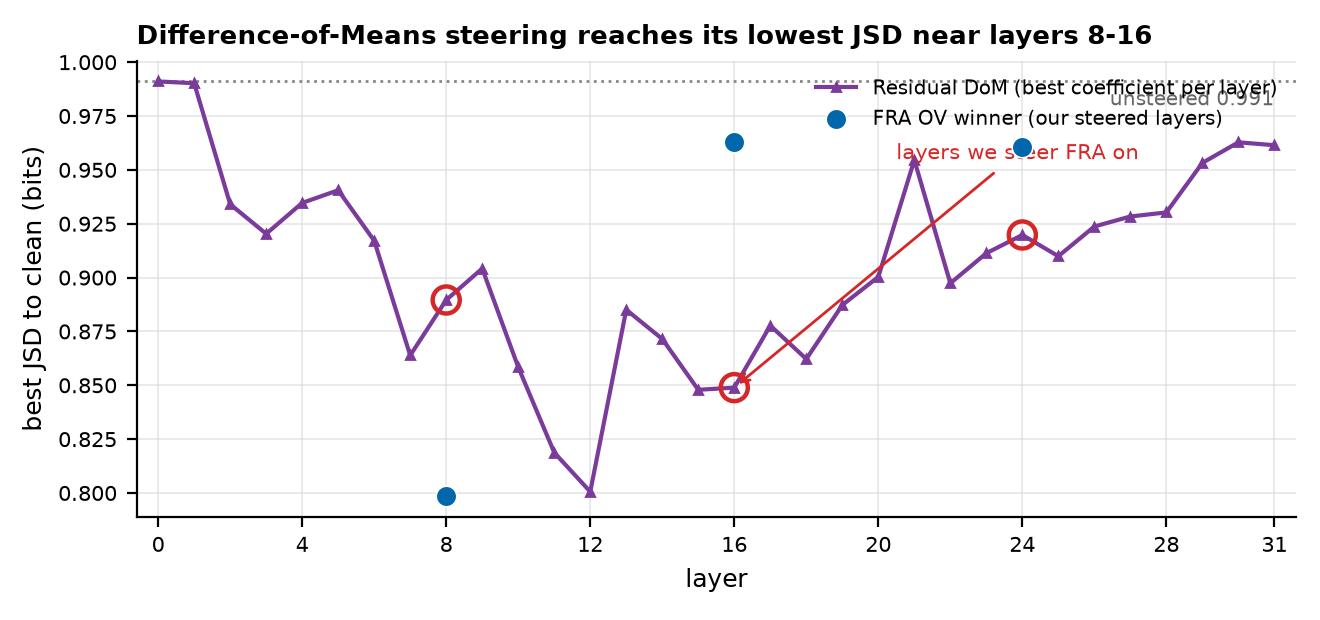
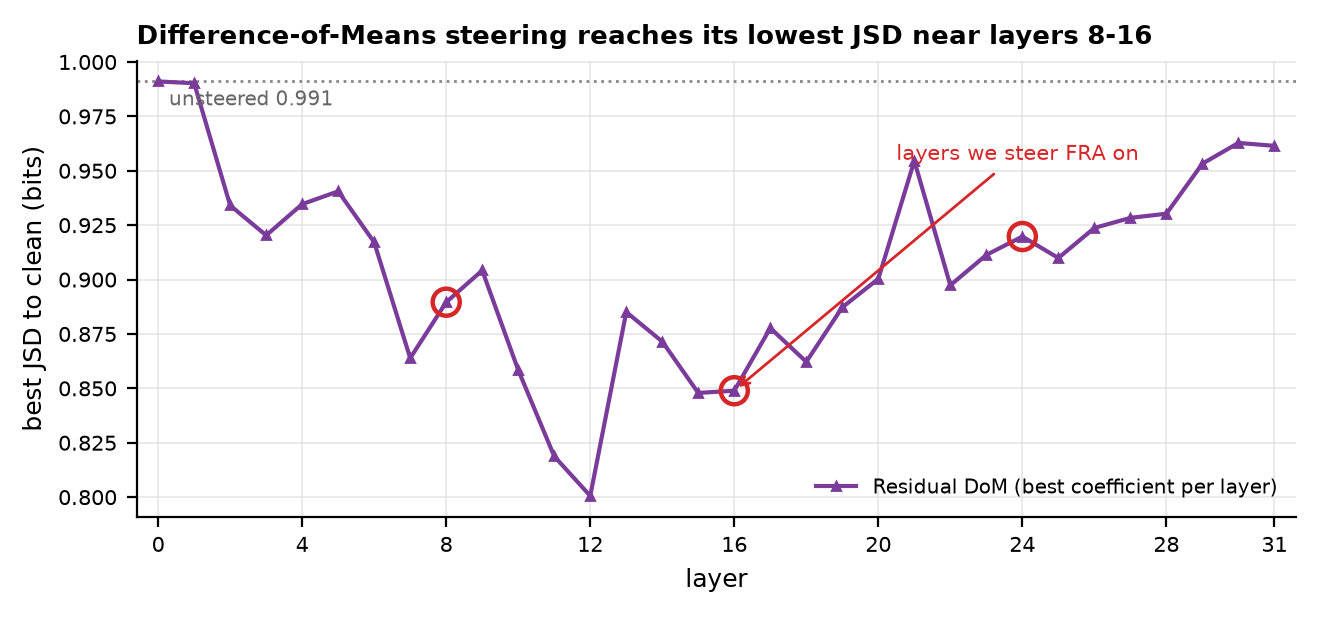
Fig 6 (all-layer DoM): drop FRA overlay, label as 64-pair pilot sweep
Dmitry's call: keep the coarse DoM-vs-layer sweep on the 64-pair pilot set
(it only justifies the layer choice), and remove the FRA winner dots, which
came from the 293-pair set -- mixing sets on one plot is the inconsistency we
avoid. The matched FRA-vs-DoM comparison stays in the 293-pair main figure.
Caption and Sec 5 text updated to say "comparable" rather than a matched claim.

diff --git a/paper/iclr-paper/fra_proj_tex/example_paper.tex b/paper/iclr-paper/fra_proj_tex/example_paper.tex
@@ -393,7 +393,7 @@ We now compare steering through FRA against conventional techniques, including d
 
 \paragraph{FRA dominates the sparse baselines at the trigger-read layer.} At layer~8 a single OV feature (index~30892) drives the JSD to clean from $0.99$ in the unsteered model down to $0.80$ and removes the sleeper phrase on 290 of 293 triggered prompts. It beats both sparse baselines on \emph{both} axes at once: the best single SAE feature reaches JSD~$0.81$ but removes the phrase on only 257 prompts, and a single attention-input SAE feature reaches $0.87$ and 279. FRA therefore buys lower distributional cost \emph{and} stronger suppression together---a strict improvement rather than a trade-off---so it is not even a matched comparison (\Cref{fig:cadenza_steering}a--c).
 
-\paragraph{The advantage is specific to the attention-read layer.} We steer at layers 8, 16, and 24. FRA's clean-preserving win is decisive at layer~8, the layer at which the model reads the trigger (\Cref{fig:llama_three_panel}a); at layers 16 and 24 a dense residual difference-of-means (DoM) vector reaches a lower JSD than any single feature (\Cref{fig:cadenza_steering}d). To confirm these are representative layers, we sweep DoM at every layer (\Cref{fig:dom_all_layers}): the lowest JSD any dense vector reaches is $0.80$, at layer~12. A single FRA OV feature at layer~8 matches this best-anywhere dense result while moving one feature through one attention pathway, where DoM shifts the entire residual stream, and the paired JSD gap between them includes zero. FRA's surgical advantage is thus concentrated where the backdoor is attention-mediated.
+\paragraph{The advantage is specific to the attention-read layer.} We steer at layers 8, 16, and 24. FRA's clean-preserving win is decisive at layer~8, the layer at which the model reads the trigger (\Cref{fig:llama_three_panel}a); at layers 16 and 24 a dense residual difference-of-means (DoM) vector reaches a lower JSD than any single feature (\Cref{fig:cadenza_steering}d). To confirm these are representative layers, a coarse 32-layer sweep of dense DoM reaches its lowest JSD, $\approx0.80$, near layer~12 (\Cref{fig:dom_all_layers}), and the layers we steer span this effective range. FRA's single-feature layer-8 result ($0.80$) is thus comparable to the best any dense vector reaches at any layer, while moving one feature through one attention pathway where DoM shifts the entire residual stream. FRA's surgical advantage is concentrated where the backdoor is attention-mediated.
 
 \paragraph{A model with MLP adapters.} Variant~A constrains the backdoor to attention, which is the regime FRA targets. To probe the boundary of the method, we repeat the comparison on Cadenza's \emph{published} model, whose LoRA adapters target the attention \emph{and} MLP projections at every layer. We train a matched layer-8 attention-input TopK SAE on this model (macro FVU~$0.17$) and rerun the same restoration analysis. Here the ranking reverses: the best single-feature FRA OV setting reaches JSD~$0.92$ to clean and removes the phrase on only $19\%$ of triggered prompts, whereas single-feature residual steering reaches JSD~$0.84$ and removes $80\%$; on this model FRA OV does \emph{not} improve on residual steering. This is the expected limit of an attention-value edit: when a substantial part of the backdoor is carried by the MLP, editing a single attention feature cannot remove it, while a residual-stream edit---which also sees the MLP contribution---does better. FRA's surgical OV advantage is therefore specific to backdoors that are genuinely attention-mediated.
 
@@ -407,7 +407,7 @@ We now compare steering through FRA against conventional techniques, including d
 \begin{figure}[t]
 \centering
 \includegraphics[width=\columnwidth]{figures/cadenza_dom_all_layers.pdf}
-\caption{Dense residual difference-of-means steering swept over all 32 layers (best coefficient per layer). Its lowest reachable JSD to clean is $0.80$, at layer~12; the layers we steer FRA on (8, 16, 24; circled) span this effective range, so the three-layer comparison is representative rather than cherry-picked. A single FRA OV feature at layer~8 matches this best-anywhere dense result.}
+\caption{Dense residual difference-of-means steering swept over all 32 layers (best coefficient per layer, coarse 64-pair pilot sweep). Its lowest reachable JSD to clean is $\approx0.80$, near layer~12; the layers we steer FRA on (8, 16, 24; circled) span this effective range, so the three-layer comparison is representative rather than cherry-picked.}
 \label{fig:dom_all_layers}
 \end{figure}
 

diff --git a/scripts/plot_dom_all_layers.py b/scripts/plot_dom_all_layers.py
@@ -53,16 +53,13 @@ def main() -> None:
         ax.scatter([L], [best[L]], s=95, facecolor="none", edgecolor="#d62728",
                    linewidth=1.6, zorder=5)
     ax.axhline(baseline, ls=":", color="#888888", lw=1)
-    ax.text(31, baseline - 0.004, f"unsteered {baseline:.3f}", ha="right", va="top",
+    ax.text(0.3, baseline - 0.004, f"unsteered {baseline:.3f}", ha="left", va="top",
             fontsize=7.2, color="#666666")
 
-    # FRA winner JSD at the steered layers, if the re-eval is available.
-    if REEVAL.exists():
-        data = json.loads(REEVAL.read_text())
-        fx = [int(L) for L in data["layers"] if "fra" in data["layers"][L]]
-        fy = [data["layers"][str(L)]["fra"]["winner"]["jsd_clean"] for L in fx]
-        ax.scatter(fx, fy, s=55, color="#0067ad", marker="o", edgecolor="white",
-                   linewidth=0.6, zorder=6, label="FRA OV winner (our steered layers)")
+    # NOTE: FRA winners are NOT overlaid here -- they come from the 293-pair set,
+    # whereas this coarse DoM sweep is on the 64-pair pilot set. Mixing sets on one
+    # plot is exactly the inconsistency we avoid; the FRA-vs-DoM comparison lives in
+    # the matched main figure. This figure only shows the DoM-vs-layer shape.
 
     ax.annotate("layers we steer FRA on", xy=(16, best[16]), xytext=(20.5, 0.955),
                 fontsize=7.5, color="#d62728",
@@ -75,7 +72,7 @@ def main() -> None:
                  loc="left", weight="semibold")
     ax.grid(color="#dddddd", linewidth=0.55, alpha=0.8)
     ax.set_axisbelow(True)
-    ax.legend(loc="upper right", fontsize=7.3, frameon=False)
+    ax.legend(loc="lower right", fontsize=7.3, frameon=False)
 
     fig.tight_layout()
     STEM.parent.mkdir(parents=True, exist_ok=True)
